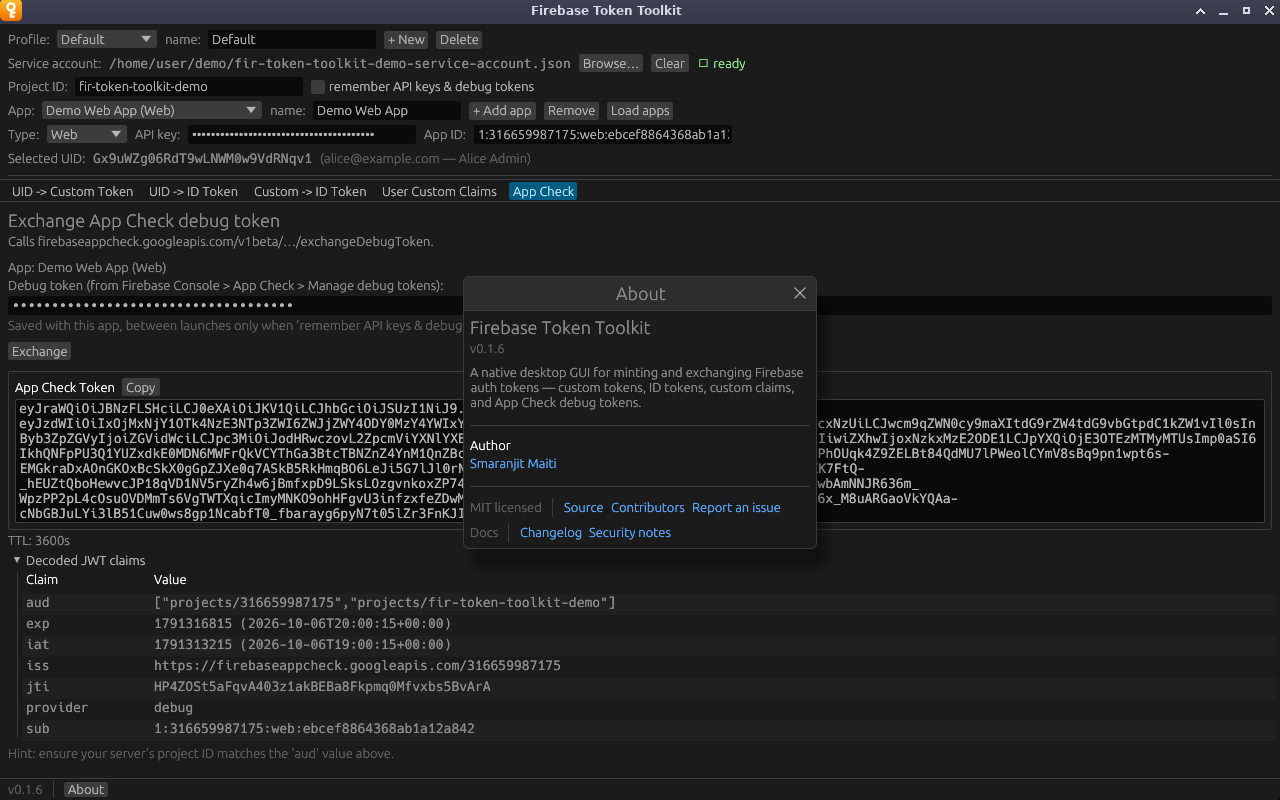
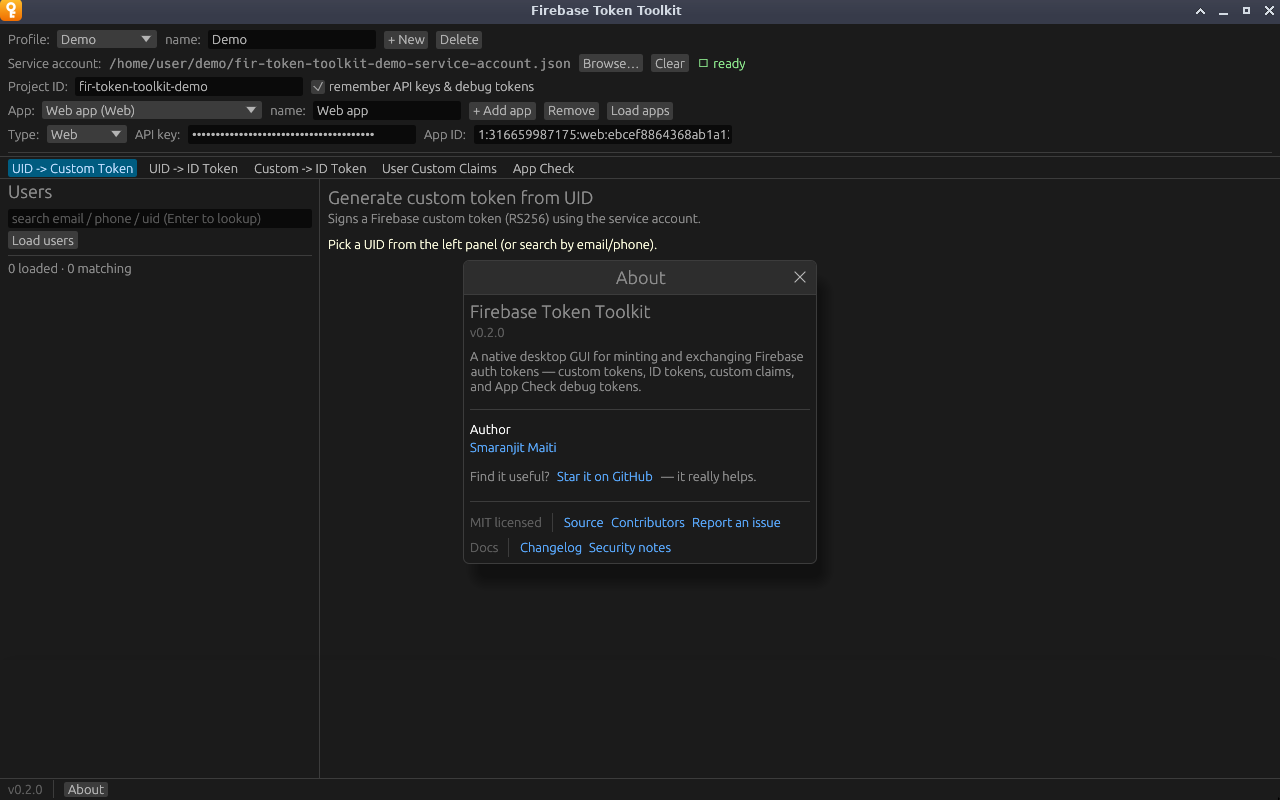
Ask for a GitHub star in the README, guide and About dialog

diff --git a/src/ui/about.rs b/src/ui/about.rs
@@ -89,6 +89,13 @@ pub fn window(ctx: &egui::Context, open: &mut bool) {
             }
 
             ui.add_space(10.0);
+            ui.horizontal(|ui| {
+                ui.label("Find it useful?");
+                ui.hyperlink_to("Star it on GitHub", env!("CARGO_PKG_REPOSITORY"));
+                ui.label("— it really helps.");
+            });
+
+            ui.add_space(10.0);
             ui.separator();
             ui.add_space(6.0);
 

diff --git a/README.md b/README.md
@@ -92,6 +92,8 @@ This tool handles Firebase **service-account private keys** and mints signed tok
 
 The short version: the service account is read from the path you pick and never copied; OAuth access tokens live in memory only; API keys and App Check debug tokens are written to disk only when you tick **remember API keys & debug tokens**.
 
+If you find this useful, please consider [starring the project on GitHub](https://github.com/smaranjit/firebase-token-toolkit), it really helps!
+
 ## Contributing
 
 Issues and pull requests are welcome — see [CONTRIBUTING.md](https://github.com/smaranjit/firebase-token-toolkit/blob/main/CONTRIBUTING.md).

diff --git a/docs/src/introduction.md b/docs/src/introduction.md
@@ -39,3 +39,7 @@ private key or the tokens it mints to disk.
 > **Use a development project.** A service-account key can sign in as any user
 > in its project, and the app shows real tokens on screen. Read the
 > [Security](security.md) page before pointing it at anything that matters.
+
+If you find this useful, please consider
+[starring the project on GitHub](https://github.com/smaranjit/firebase-token-toolkit),
+it really helps!

diff --git a/CHANGELOG.md b/CHANGELOG.md
@@ -7,6 +7,11 @@ and this project adheres to [Semantic Versioning](https://semver.org/spec/v2.0.0
 
 ## [Unreleased]
 
+### Added
+
+- The About dialog, the README and the user guide now ask, once and out of the
+  way, for a star on GitHub if you find the app useful.
+
 ## [0.2.0]
 
 ### Added
